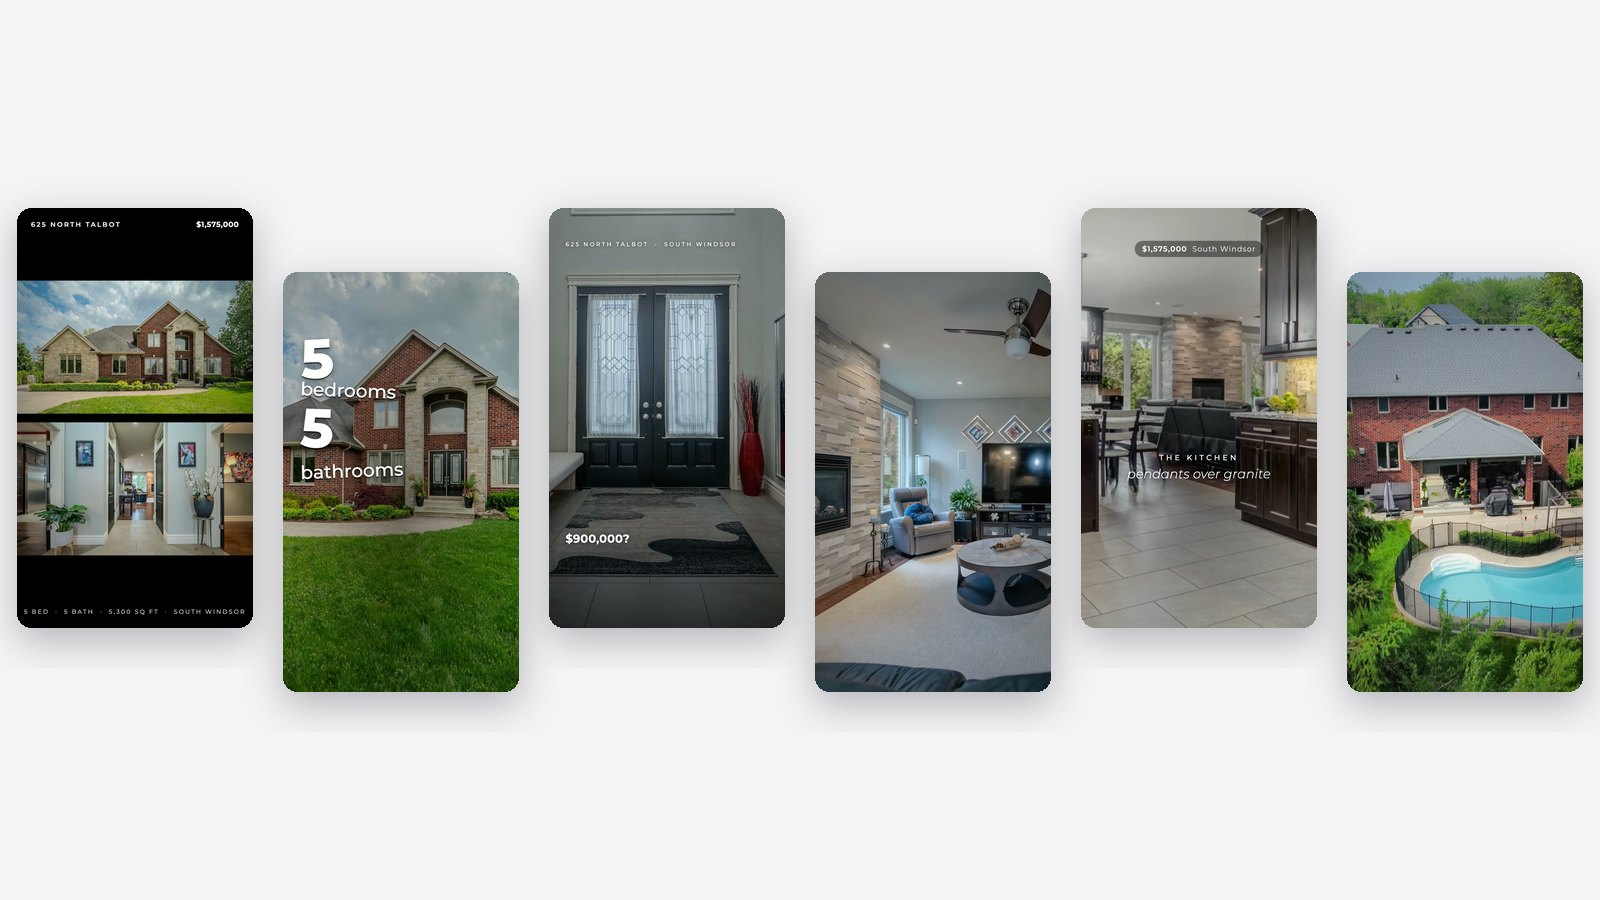
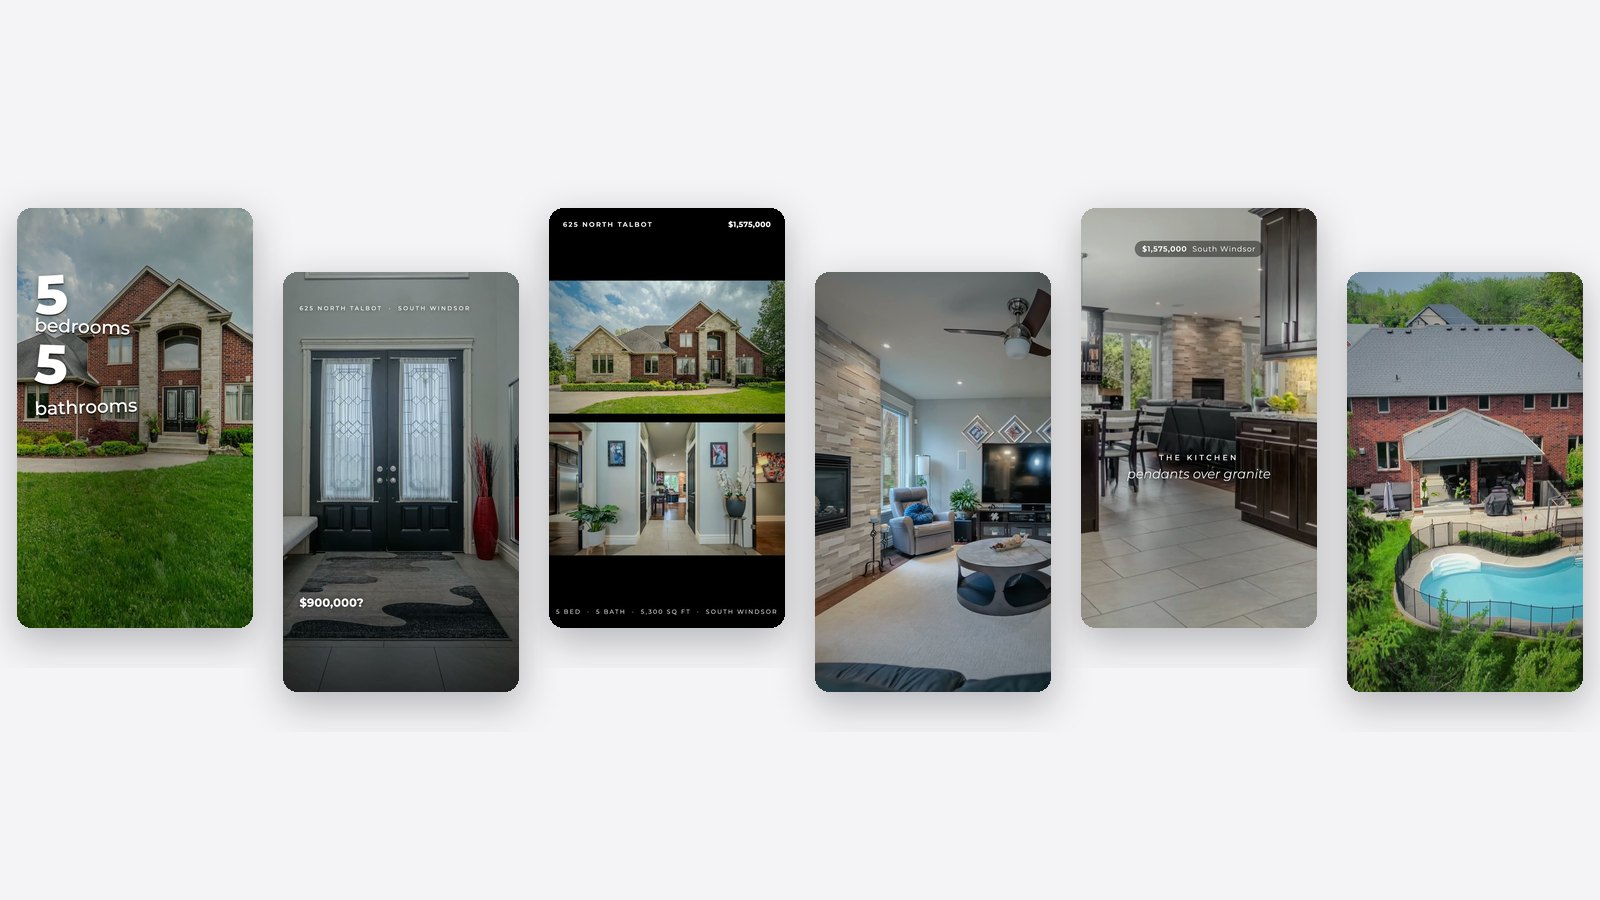
site: reels in Ryan's order, favourites first
Claude-Session: https://claude.ai/code/session_01FMpGXo4VnXxK4rY2N6enow

Changed region(s): [[0.0, 0.2178, 0.5, 0.7778]]

diff --git a/pack/index.html b/pack/index.html
@@ -67,37 +67,37 @@
       <p class="sec-sub"><span class="hint-hover">Hover to preview, click to watch with sound.</span><span class="hint-touch">Tap one to watch with sound.</span></p>
     </div>
     <div class="phones">
-      <article class="phone reveal" style="--d:0.00s" data-video="assets/reels/V2.mp4" data-portrait="1" data-title="Two rooms at a time" tabindex="0" role="button" aria-label="Play Two rooms at a time">
-        <div class="phone-screen">
-          <img src="assets/posters/V2.jpg" alt="" width="720" height="1280" loading="lazy">
-          <video muted playsinline loop preload="none" data-src="assets/reels/V2_540.mp4"></video>
-          <span class="phone-key">01</span>
-          <span class="phone-dur">0:18</span>
-        </div>
-        <div class="phone-meta">
-          <h3>Two rooms at a time</h3>
-        </div>
-      </article>
-      <article class="phone reveal" style="--d:0.07s" data-video="assets/reels/V5.mp4" data-portrait="1" data-title="What $1,575,000 gets you" tabindex="0" role="button" aria-label="Play What $1,575,000 gets you">
+      <article class="phone reveal" style="--d:0.00s" data-video="assets/reels/V5.mp4" data-portrait="1" data-title="What $1,575,000 gets you" tabindex="0" role="button" aria-label="Play What $1,575,000 gets you">
         <div class="phone-screen">
           <img src="assets/posters/V5.jpg" alt="" width="720" height="1280" loading="lazy">
           <video muted playsinline loop preload="none" data-src="assets/reels/V5_540.mp4"></video>
-          <span class="phone-key">02</span>
+          <span class="phone-key">01</span>
           <span class="phone-dur">0:20</span>
         </div>
         <div class="phone-meta">
           <h3>What $1,575,000 gets you</h3>
         </div>
       </article>
-      <article class="phone reveal" style="--d:0.14s" data-video="assets/reels/V4.mp4" data-portrait="1" data-title="Guess the price" tabindex="0" role="button" aria-label="Play Guess the price">
+      <article class="phone reveal" style="--d:0.07s" data-video="assets/reels/V4.mp4" data-portrait="1" data-title="Guess the price" tabindex="0" role="button" aria-label="Play Guess the price">
         <div class="phone-screen">
           <img src="assets/posters/V4.jpg" alt="" width="720" height="1280" loading="lazy">
           <video muted playsinline loop preload="none" data-src="assets/reels/V4_540.mp4"></video>
-          <span class="phone-key">03</span>
+          <span class="phone-key">02</span>
           <span class="phone-dur">0:18</span>
         </div>
         <div class="phone-meta">
           <h3>Guess the price</h3>
+        </div>
+      </article>
+      <article class="phone reveal" style="--d:0.14s" data-video="assets/reels/V2.mp4" data-portrait="1" data-title="Two rooms at a time" tabindex="0" role="button" aria-label="Play Two rooms at a time">
+        <div class="phone-screen">
+          <img src="assets/posters/V2.jpg" alt="" width="720" height="1280" loading="lazy">
+          <video muted playsinline loop preload="none" data-src="assets/reels/V2_540.mp4"></video>
+          <span class="phone-key">03</span>
+          <span class="phone-dur">0:18</span>
+        </div>
+        <div class="phone-meta">
+          <h3>Two rooms at a time</h3>
         </div>
       </article>
       <article class="phone reveal" style="--d:0.21s" data-video="assets/reels/V3.mp4" data-portrait="1" data-title="The great room" tabindex="0" role="button" aria-label="Play The great room">

diff --git a/pack/build_pack_page.py b/pack/build_pack_page.py
@@ -15,12 +15,12 @@ import pathlib, html
 HERE = pathlib.Path(__file__).parent
 MAIL = "mailto:its.rylexx@gmail.com?subject=Listing%20Content%20Pack%20for%20[your%20address]"
 
-# The six v2 reels (2026-09-10), one format each, in the order the schedule posts them.
+# The six v2 reels (2026-09-10), one format each, in Ryan's order (2026-09-11: his two favourites first).
 # (key, name, duration). Keys match pack/assets/reels/<key>.mp4 and posters/<key>.jpg.
 REELS = [
-    ("V2", "Two rooms at a time", "0:18"),
     ("V5", "What $1,575,000 gets you", "0:20"),
     ("V4", "Guess the price", "0:18"),
+    ("V2", "Two rooms at a time", "0:18"),
     ("V3", "The great room", "0:12"),
     ("V1", "The details", "0:24"),
     ("V6", "Fire, water, stone, wood", "0:24"),

diff --git a/pack/build_shelf.py b/pack/build_shelf.py
@@ -11,7 +11,7 @@ from PIL import Image, ImageFilter
 HERE = pathlib.Path(__file__).parent
 POSTERS = HERE / "assets" / "posters"
 OUT = HERE.parent / "assets" / "img" / "pack-shelf.jpg"
-ORDER = ["V2", "V5", "V4", "V3", "V1", "V6"]      # posting order, same as the pack page
+ORDER = ["V5", "V4", "V2", "V3", "V1", "V6"]      # same order as the pack page
 
 W, H = 1600, 900
 CW, CH = 236, 420                                  # one phone card

diff --git a/README.md b/README.md
@@ -130,6 +130,27 @@ Pricing shown on the site (2026-09-09): Listing video $150 pay-if-you-like · Co
 from photos, +$100 posted · Content pack from the realtor's own footage $300 · one vertical reel
 $100 as a footnote. No $200 film anywhere on the site.
 
+## 2026-09-11: the v2 reels and four carousels
+
+- `/pack/` now shows the six **v2 reels** (`clients/Isaac Verge - 625 North Talbot/pack/reels/v2/`,
+  one format each, 12 to 24 s), keyed V1..V6 in `pack/assets/reels/` and `posters/`, listed on the
+  page in posting order (V2, V5, V4, V3, V1, V6) with a 01..06 badge instead of the internal key.
+  The old F1/F2/S1/S2/S12/S3 transcodes were removed from the site; the masters stay in the client folder.
+  Transcode recipe: player copy `scale=720:1280`, x264 CRF 22, AAC 128k 48 kHz, faststart; hover
+  preview `scale=540:960`, CRF 26, no audio; poster = frame at 2.0 s, JPEG q3.
+- **Four carousels**: C1 Just Listed, C2 the backyard, plus the new **C3 The other half** (the five
+  bedrooms counted, then the lower level, 10 slides) and **C4 By day, by dusk** (the same four
+  exteriors by day and at dusk, split on one slide, 5 slides). Built in
+  `clients/.../pack/carousels/C3_other_half/` and `C4_day_dusk/` on the same `slidekit`, rendered
+  with `render.py`, exported here as `pack/assets/c3/` and `c4/` (1080x1350 JPEG q82).
+- Hero says twenty pieces (6 + 4 + 1 + 4 + 5); the stat strip is reels / carousels / album /
+  stories and cards / turnaround. The schedule (page list and the card image) posts the carousels
+  on days 0, 3, 8 and 11. The format menu is twelve plain names, numbered, six marked.
+- `pack/build_shelf.py` rebuilds `assets/img/pack-shelf.jpg` (the home page's pack card) from the
+  posters in posting order; run it whenever the posters change.
+- Home: the pack card and the pricing plan say four carousels; the pricing heading is
+  "One price each. Nothing up front."
+
 ## Three pages (2026-09-09 evening, Ryan's restructure)
 
 The site sells two things, so it is three pages sharing one nav (Listing video · Content pack ·
@@ -142,7 +163,7 @@ Testimonials · About · Get a video) and one `styles.css`:
   The photo-to-video pair and the work carousel moved off the home to `/video/`.
 - `/video/` the horizontal listing video: hero + a featured Talbot player, four "what you get"
   facts, the photo-to-video pair, the carousel of all fifteen films, the three steps, $150.
-- `/pack/` the content pack, below.
+- `/pack/` the content pack, below (six v2 reels and four carousels since 2026-09-11, see above).
 
 `app.js` is shared by `/` and `/video/`; every block guards on its elements (no montage on the
 video page, no carousel on the home). `/pack/` keeps its own `pack.js`.
